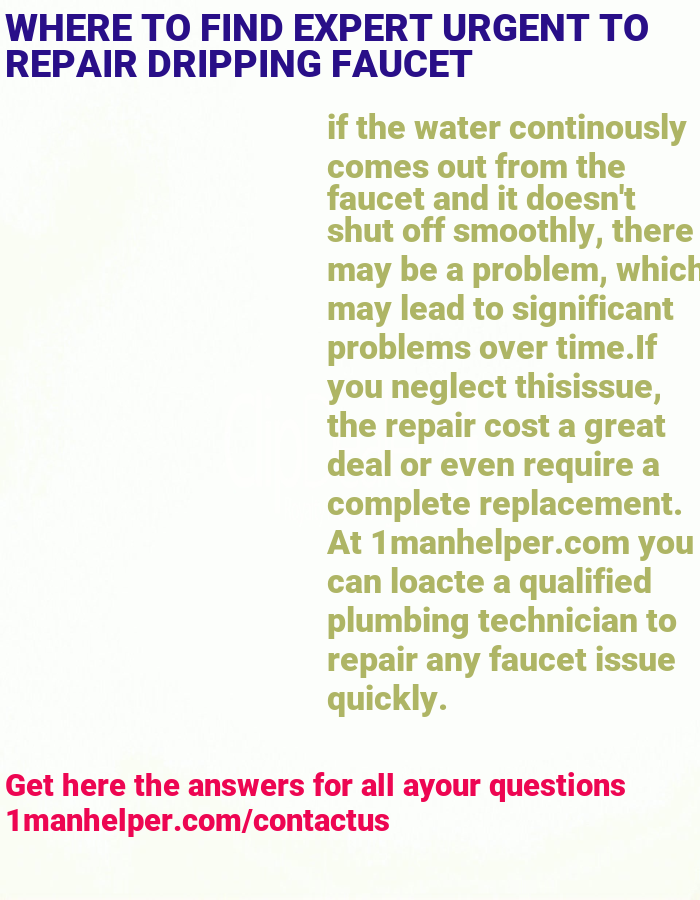
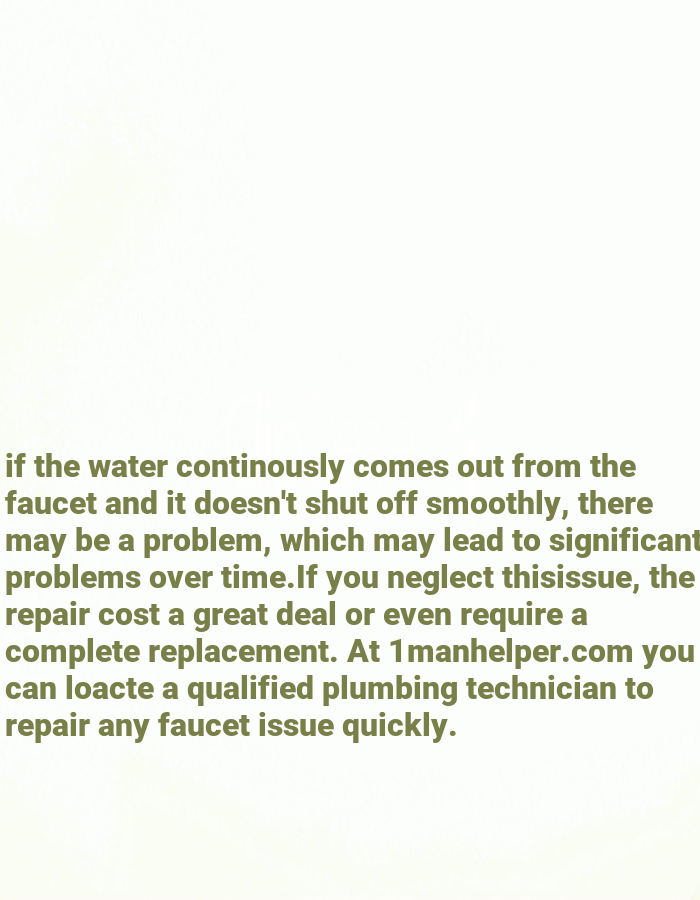
update_picture_template_creation

Changed region(s): [[0.0, 0.1244, 1.0, 0.9333], [0.0, 0.0, 0.93, 0.0933]]

diff --git a/utilities/text_to_image.py b/utilities/text_to_image.py
@@ -6,6 +6,8 @@ from PIL import Image
 from PIL import ImageFont
 from PIL import ImageDraw
 
+temp = './save/temp.png'
+
 
 def text_wrap(text, fonts, font_size, max_width, width):
     font_1 = ImageFont.truetype(font=fonts, size=int(font_size * width * 0.001875))
@@ -29,27 +31,41 @@ def text_wrap(text, fonts, font_size, max_width, width):
     return lines
 
 
-def add_text_to_image(text, fonts, font_size, path, x, y, h, w):
-    colors = ["#" + "".join([random.choice("ABCDEF0123456789") for i in range(6)])]
-    colors = colors[0]
+def add_text_to_image(picture_path, template, fonts, font_size, path):
     img = Image.open(path)
-    img = img.convert("RGBA")
-    draw = ImageDraw.Draw(img)
-    width, height = img.size
-    font = ImageFont.truetype(font=fonts, size=int(font_size * width * 0.001875))
-    font_size1 = font_size
-    lines = text_wrap(text, fonts, font_size1, w, width)
-    while font.getsize(text)[1] * len(lines) > h:
-        font = ImageFont.truetype(font=fonts, size=int(font_size1 * width * 0.001875))
-        font_size1 -= 1
-        lines = text_wrap(text, fonts, font_size1, w, width)
+    img.save(temp)
+    for k, v in template.items():
+        if k == 'image':
+            bg = Image.open(path)
+            img2 = Image.open(picture_path).convert('RGBA')
+            img2 = img2.resize(template[k][1])
+            bg.paste(img2, template[k][0])
+            bg.save(temp)
+        else:
+            text = input(f"{k}: ")
+            w = template[k][1][0] - template[k][0][0]
+            h = template[k][1][1] - template[k][0][1]
+            x = template[k][0][0]
+            y = template[k][0][1]
+            colors = ["#" + "".join([random.choice("ABCDEF0123456789") for i in range(6)])]
+            colors = colors[0]
+            img = Image.open(temp)
+            img = img.convert("RGBA")
+            draw = ImageDraw.Draw(img)
+            width, height = img.size
+            font = ImageFont.truetype(font=fonts, size=int(font_size * width * 0.001875))
+            font_size1 = font_size
+            lines = text_wrap(text, fonts, font_size1, w, width)
+            while font.getsize(text)[1] * len(lines) > h:
+                font = ImageFont.truetype(font=fonts, size=int(font_size1 * width * 0.001875))
+                font_size1 -= 1
+                lines = text_wrap(text, fonts, font_size1, w, width)
 
-    width, height = font.getsize(lines[0])
+            width, height = font.getsize(lines[0])
 
-    y_text = int(y + h/2 - height * len(lines)/2)
-    for line in lines:
-        width, height = font.getsize(line)
-        draw.text((x, y_text), line, font=font, fill=colors)
-        y_text += height
-
-    img.save('./save/image.png')
+            y_text = int(y + h / 2 - height * len(lines) / 2)
+            for line in lines:
+                width, height = font.getsize(line)
+                draw.text((x, y_text), line, font=font, fill=colors)
+                y_text += height
+            img.save(temp)

diff --git a/app.py b/app.py
@@ -9,35 +9,38 @@ path_save = "./image/demo.png"
 fonts = './fonts/roboto-Black.ttf'
 image_path = "./image/5c7c71feb51b6.png"
 
+template_1 = {"header": [(5, 5), (694, 73)],
+              "image": [(5, 79), (322, 760)],
+              "description": [(327, 79), (694, 760)],
+              "footer": [(5, 766), (694, 894)]}
 
-dict1 = {"header": [(5, 5), (694, 73)],
-         "image": [(5, 79), (322, 760)],
-         "description": [(327, 79), (694, 760)],
-         "footer": [(5, 766), (694, 894)]}
+template_2 = {"image": [(5, 5), (694, 296)],
+              "header": [(5, 300), (693, 429)],
+              "description": [(5, 429), (694, 761)],
+              "footer": [(5, 766), (694, 894)]}
+
+template_3 = {'image': [(5, 5), (360, 894)],
+              "header": [(364, 5), (990, 140)],
+              "description": [(365, 150), (990, 720)],
+              "footer": [(365, 730), (995, 890)]}
 
 img = Image.open(path)
-img = img.resize((700, 900))
+img = img.resize((1000, 900))
 img.save(path_save)
 
-bg = Image.open('./save/image.png')
-img2 = Image.open(image_path).convert('RGBA')
-img2 = img2.resize((300, 680))
-bg.paste(img2, (5, 85))
-bg.save('result.png')
+# bg = Image.open('./save/image.png')
+# img2 = Image.open(image_path).convert('RGBA')
+# img2 = img2.resize((300, 680))
+# bg.paste(img2, (5, 85))
+# bg.save('result.png')
 
-
-# img2 = cv2.imread(path_save)
-# cv2.rectangle(img2, dict1['header'][0], dict1['header'][1], (0, 0, 255), 2)
-# cv2.rectangle(img2, dict1['image'][0], dict1['image'][1], (0, 0, 255), 2)
-# cv2.rectangle(img2, dict1['description'][0], dict1['description'][1], (0, 0, 255), 2)
-# cv2.rectangle(img2, dict1['footer'][0], dict1['footer'][1], (0, 0, 255), 2)
+img2 = cv2.imread(path_save)
+# cv2.rectangle(img2, template_3['header'][0], template_3['header'][1], (0, 0, 255), 2)
+# cv2.rectangle(img2, template_3['image'][0], template_3['image'][1], (0, 0, 255), 2)
+# cv2.rectangle(img2, template_3['description'][0], template_3['description'][1], (0, 0, 255), 2)
+# cv2.rectangle(img2, template_3['footer'][0], template_3['footer'][1], (0, 0, 255), 2)
 #
 # plt.imshow(img2)
 # plt.show()
 
-# for i in range(3):
-#     text_1 = input("text: ")
-#     type1 = input("type: ")
-#     w = int(input("w "))
-#     h = int(input("h: "))
-#     text_to_image.add_text_to_image(text_1, fonts, font_size=70, path='./save/image.png', x=dict1[type1][0][0], y=dict1[type1][0][1], w=w, h=h)
+text_to_image.add_text_to_image(image_path, template_3, fonts, font_size=65, path=path_save)
